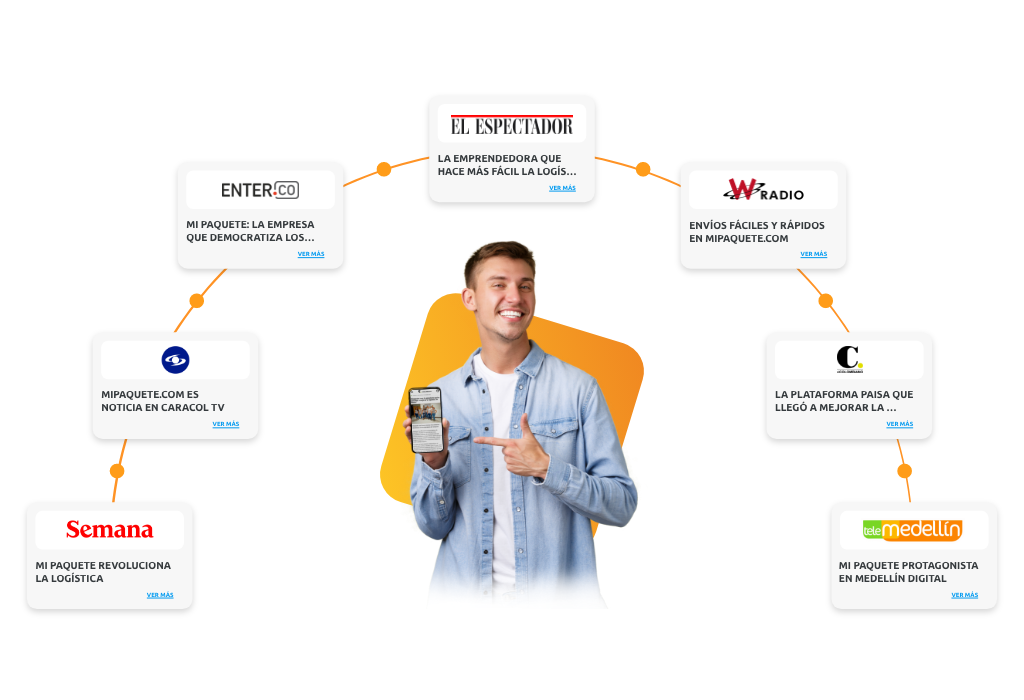
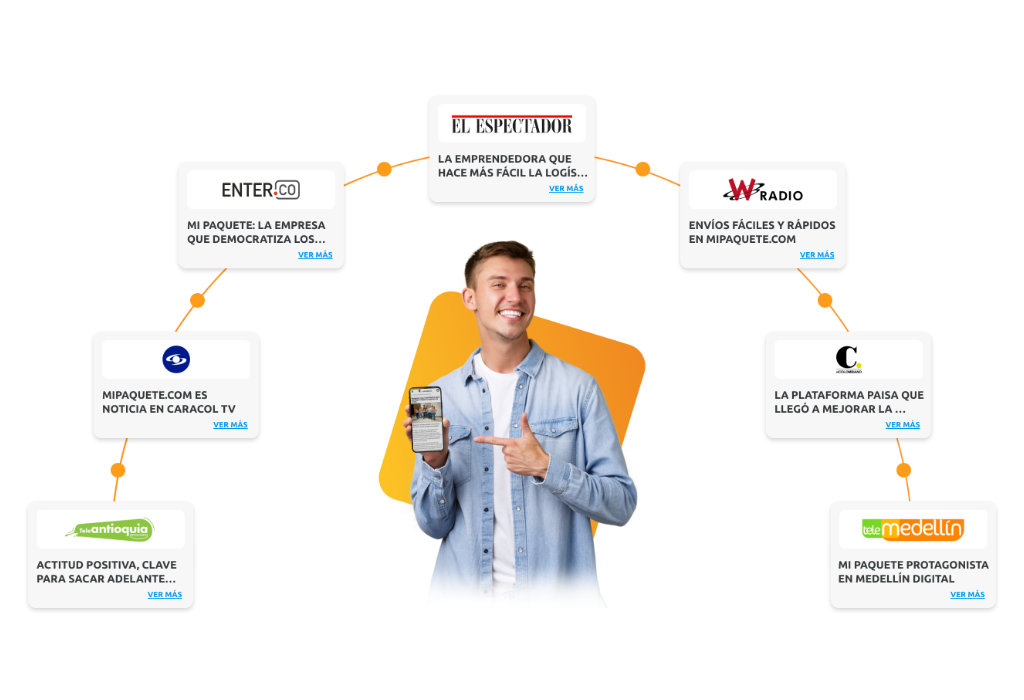
miercoles

diff --git a/src/data/tienda-en-shopify.tsx b/src/data/tienda-en-shopify.tsx
@@ -195,14 +195,14 @@ export const row = {
 		'<h2>Todo lo que tienes que saber para automatizar tu tienda en <strong>Shopify con Carrier Service</strong></h2>',
 	description:
 		'<p>Conoce paso por paso cómo configurar nuestra aplicación en tu <strong>tienda de Shopify</strong> y cómo puede ayudarte a la hora de generar ventas en tu ecommerce.</p>',
-	button: {
-		color: 'none',
-		icon: '/images/icons/play.png',
-		alt: 'icon play',
-		title: 'VER VÍDEOS',
-		url: 'https://mipaquete.com/shopify',
-		type: TypeButton.blank,
-	},
+	// button: {
+	// 	color: 'none',
+	// 	icon: '/images/icons/play.png',
+	// 	alt: 'icon play',
+	// 	title: 'VER VÍDEOS',
+	// 	url: 'https://mipaquete.com/shopify',
+	// 	type: TypeButton.blank,
+	// },
 };
 
 export const videos = [
@@ -219,7 +219,7 @@ export const videos = [
 	{
 		video: 'https://www.youtube.com/embed/kACkP2axZro',
 		title:
-			'<h3><strong>Paso 3: </strong>Configuración transportadoras. aplicación <a href="https://mipaquete.com" target="_blank" rel="noopener noreferrer"><mark>mipaquete.com</mark></a> en Shopify</h3>',
+			'<h3><strong>Paso 3: </strong>Configuración transportadoras. aplicación <mark>mipaquete.com</mark> en Shopify</h3>',
 	},
 	{
 		video: 'https://www.youtube.com/embed/_925WLY7Si8',

diff --git a/src/services/api.ts b/src/services/api.ts
@@ -14,7 +14,7 @@ export const getLocations = async (): Promise<Object> => {
 		);
 		return await res.json();
 	} catch (error) {
-		alert('Ocurrió un error, intente más tarde');
+		// alert('Ocurrió un error, intente más tarde');
 		console.error(error);
 		return {};
 	}

diff --git a/src/data/componentMedia.tsx b/src/data/componentMedia.tsx
@@ -7,7 +7,7 @@ export const media = {
 		{
 			image: '/images/media/antioquia.png',
 			alt: 'logo antioquia',
-			title: 'MI PAQUETE REVOLUCIONA LA LOGÍSTICA',
+			title: 'ACTITUD POSITIVA, CLAVE PARA SACAR ADELANTE...',
 			url: 'https://youtu.be/_6tjajW7bdw',
 		},
 		{

diff --git a/src/components/navbar/Desktop/Navbar.module.scss b/src/components/navbar/Desktop/Navbar.module.scss
@@ -5,6 +5,7 @@
 	width: 100%;
 	z-index: 9;
 	top: 0;
+	margin-top: -2px;
 }
 .container {
 	display: flex;
@@ -13,6 +14,11 @@
 }
 .logo {
 	height: 90px;
+	div, img, span {
+		margin: 0;
+		padding: 0;
+		width: 250px !important;
+	}
 }
 .icon {
 	margin-right: 20px;

diff --git a/src/components/blog/GridCards.module.scss b/src/components/blog/GridCards.module.scss
@@ -9,3 +9,12 @@
 		margin: 20px;
 	}
 }
+
+@media (min-width: 1480px) {
+	.grid_template {
+		@include container;
+		display: grid;
+		grid-template-columns: repeat(auto-fill, minmax(330px, 1fr));
+		margin: auto;
+	}
+}

diff --git a/src/components/feature/index.tsx b/src/components/feature/index.tsx
@@ -34,6 +34,7 @@ export default function Feature({
 					<iframe
 						width='560'
 						height='315'
+						loading='lazy'
 						src={items.video}
 						title='YouTube video player'
 						frameBorder='0'

diff --git a/src/components/blog/BlogCard.module.scss b/src/components/blog/BlogCard.module.scss
@@ -56,3 +56,10 @@
 		text-decoration: underline;
 	}
 }
+
+
+@media (min-width: 1480px) {
+	.cardWidth {
+		width: 300px;
+	}
+}

diff --git a/src/components/recognition/Recognition.module.scss b/src/components/recognition/Recognition.module.scss
@@ -69,7 +69,7 @@
 		align-self: end;
 	}
 	.person {
-		bottom: 0px;
+		bottom: -2px;
 		position: absolute;
 	}
 	.items {
